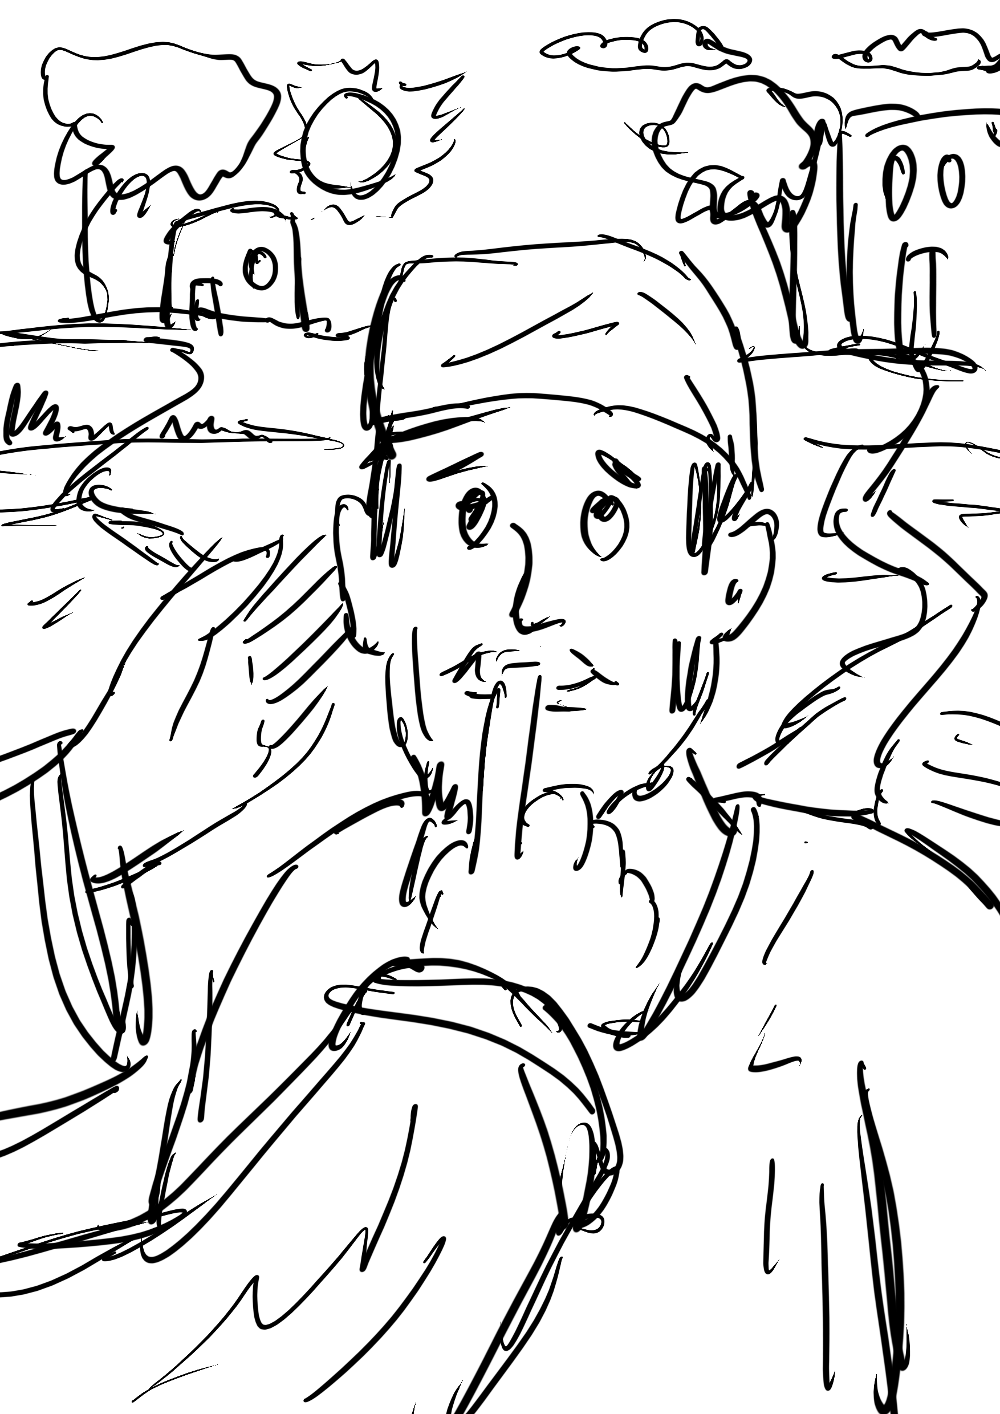
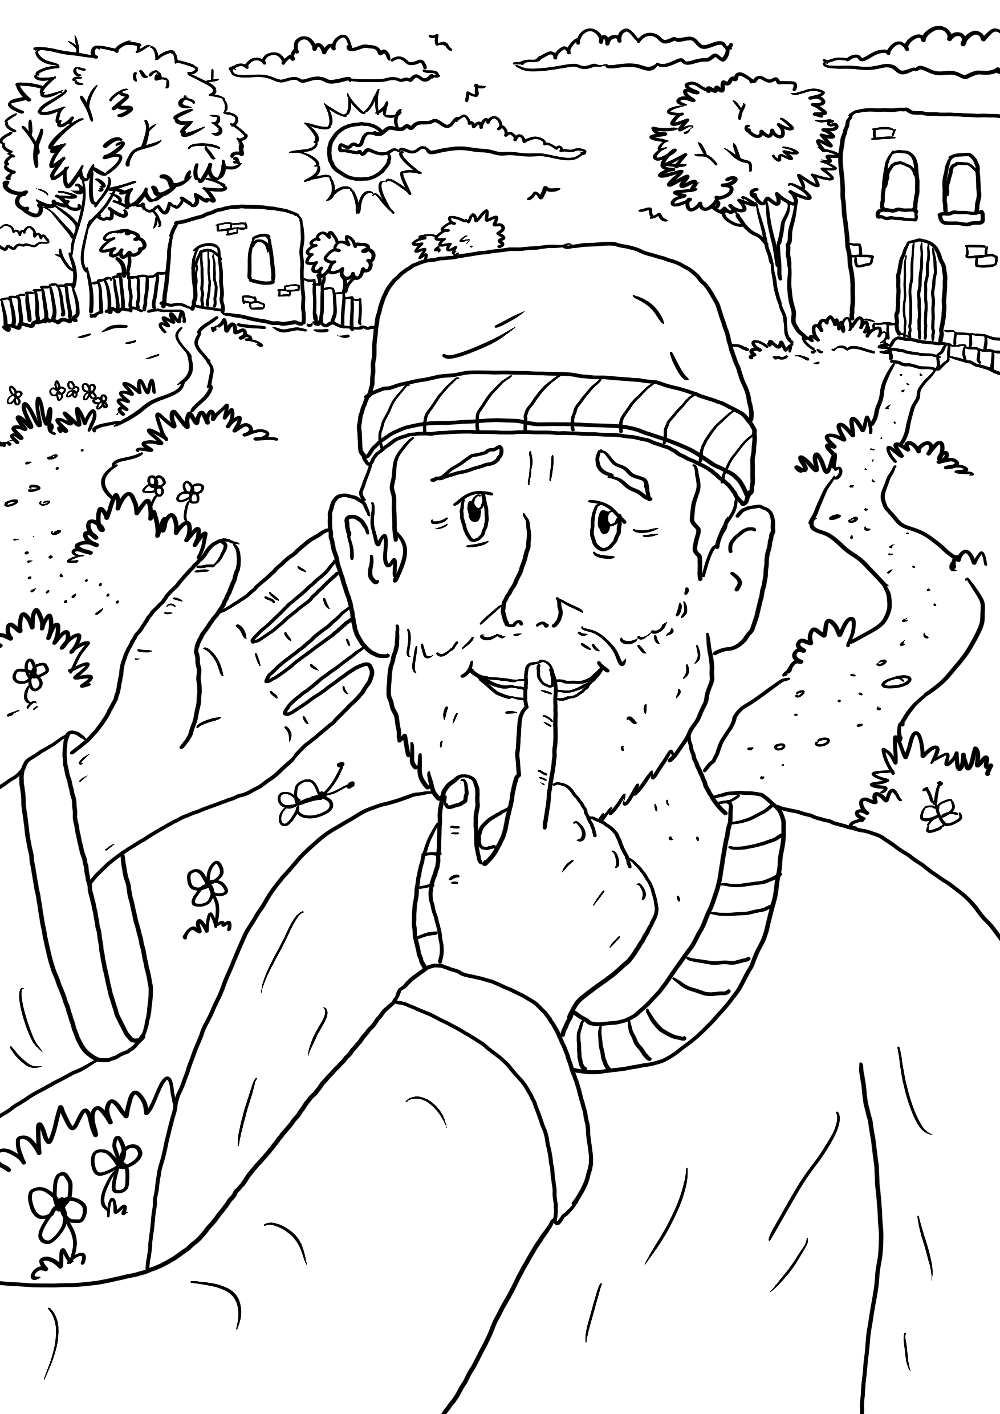
Update 22.

diff --git a/script.js b/script.js
@@ -3,7 +3,7 @@ angular.module('galleryApp', [])
     var gallery = this;
     gallery.language = "ro";
     gallery.work_start_date = new Date(2017,02,12);
-    gallery.worked_hours = 40;  // EDIT HERE
+    gallery.worked_hours = 41;  // EDIT HERE
 
     gallery.get_global_progress = function() {
       var index;
@@ -410,7 +410,7 @@ angular.module('galleryApp', [])
       {
         id: 22,
         img: '22.png',
-        done: 50,
+        done: 100,
         title: {
           ro: "Vindecarea omului surd și mut",
           en: "Healing a deaf and mute man"
